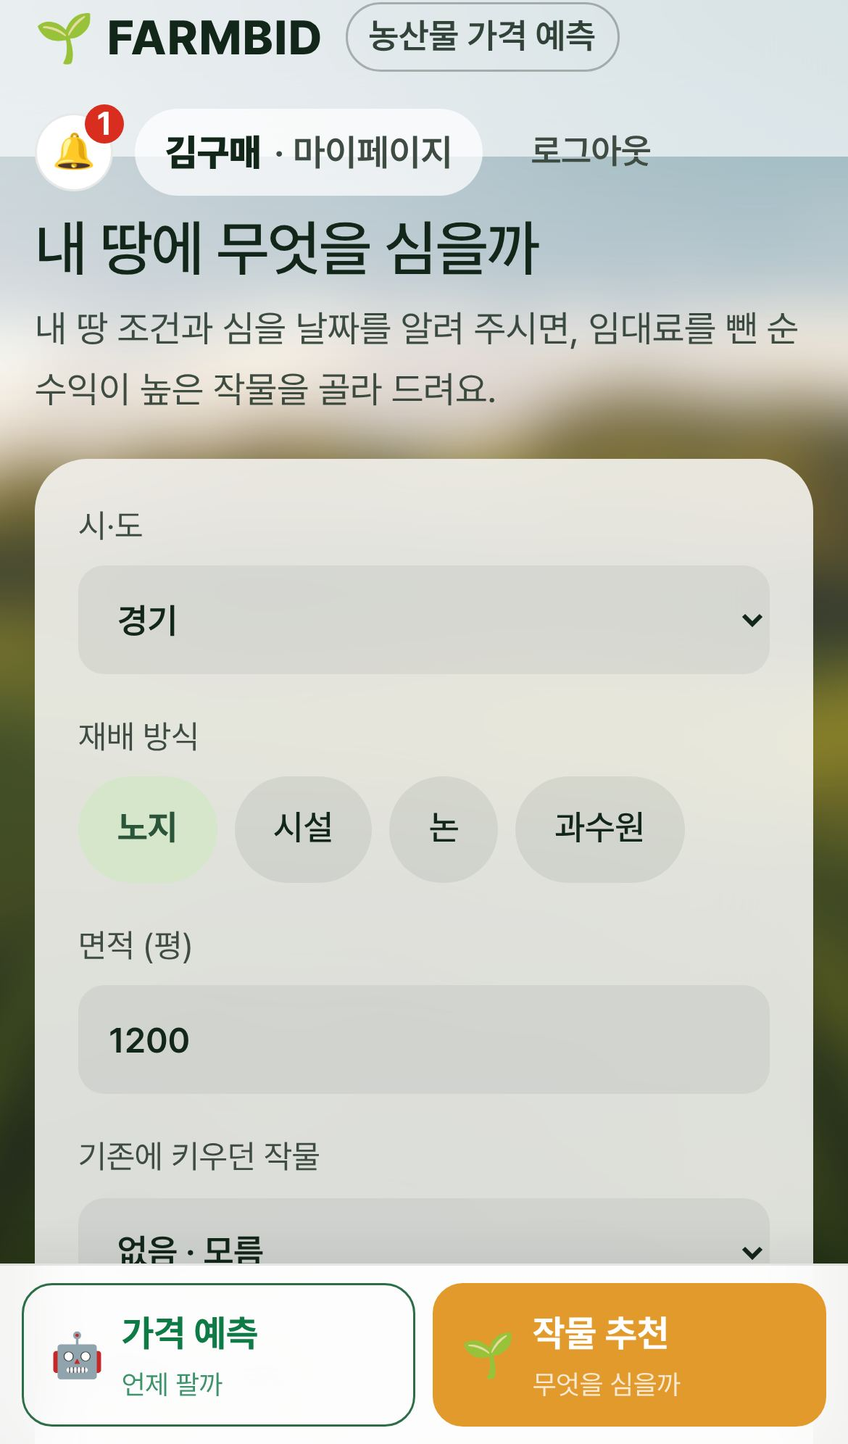
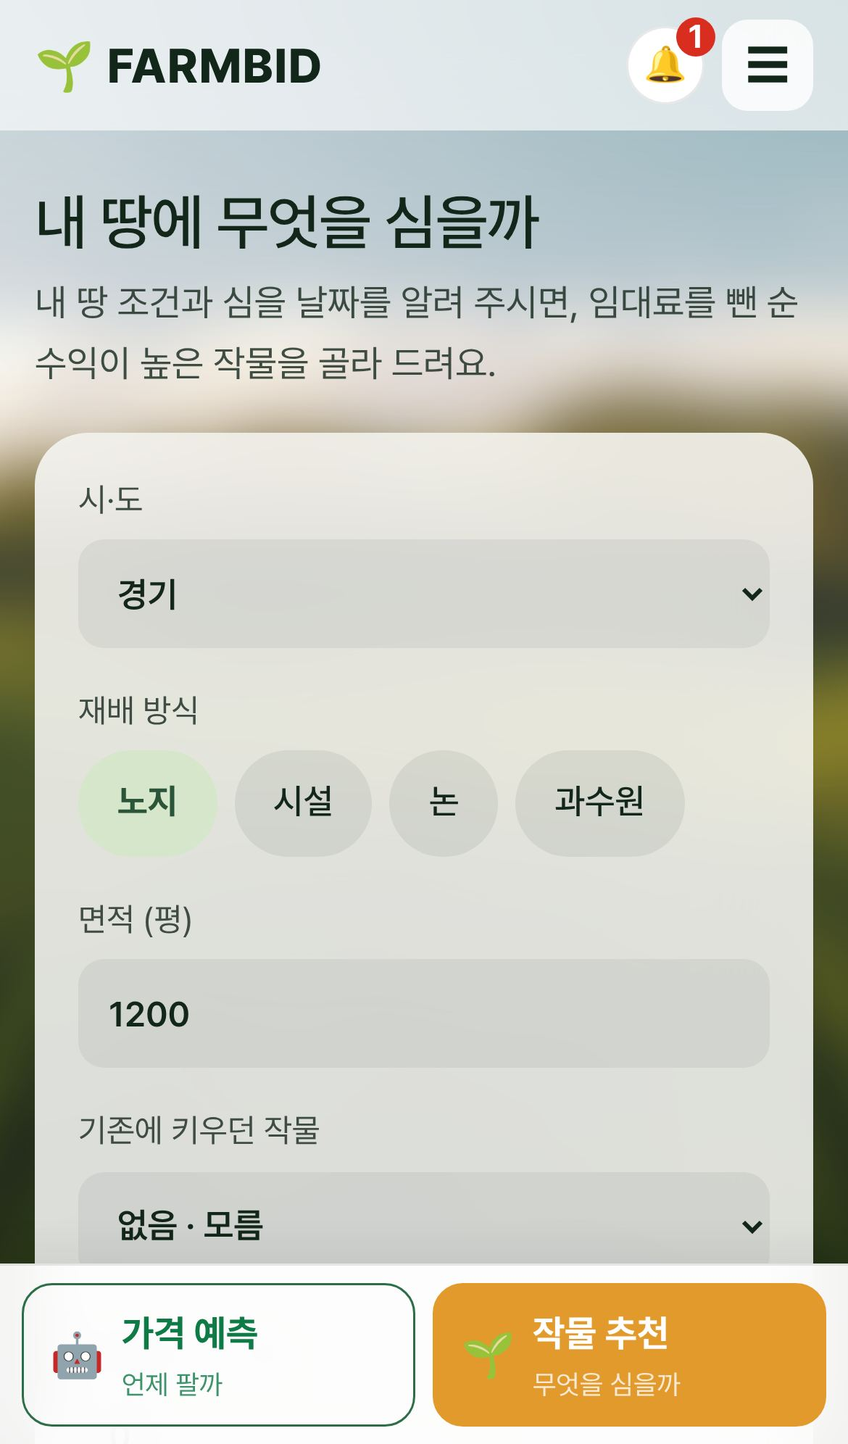
feat(frontend): 휴대폰 맞춤 — ☰ 메뉴, 홈 미리보기·날씨·소개 칸, 예측·12개월 그래프 휴대폰용, 작물 카드·재배 달력, 시세 표, 마이페이지 넘침, 바닥글
- 머리말(960px 이하): 로고 · 알림 · ☰ (검색 · 메뉴 6개 · 마이페이지 · 로그아웃 · 관리자 사이트)
- 홈: 미리보기 카드가 잘리지 않게, 가격 예측·작물 추천 카드 둘 다, 지역 날씨 4칸 글자 쪼개짐, 서비스 소개 한 줄에 하나
- 가격 예측·작물 정보 12개월 그래프: 좁은 화면이면 좁게 다시 그려 글씨 15px 유지 (useNarrow)
- 작물 카드 이름과 1위 표시 겹침, 재배 달력(작형 이름을 막대 위로, 내가 심을 날 이름표 안 잘리게)
- 시세: 등급 카드 숫자 줄바꿈, 표는 옆으로 밀어 보기, 반입 그래프 이름표 겹침
- 마이페이지 가로 넘침, 글 수정·삭제 버튼, 바닥글을 진한 띠로
- 휴대폰 모양은 frontend/src/mobile.css 한 파일에 모음

Claude-Session: https://claude.ai/code/session_01A5Bz2YFgwDEj3wEsMnATng

diff --git a/frontend/src/mobile.css b/frontend/src/mobile.css
@@ -1,0 +1,89 @@
+/* ─────────────────────────────────────────────────────────────
+   휴대폰 맞춤 (11-11) — 사용자 사이트만, theme.css 다음에 읽음
+   기준 폭: 960px 이하 = 머리말 ☰ 메뉴 · 640px 이하 = 휴대폰 · 520px 이하 = 작은 휴대폰 (iPhone 13 = 390px)
+   ───────────────────────────────────────────────────────────── */
+
+/* 머리말 ☰ 메뉴 (넓은 화면에서는 숨김) */
+.hdr-menu { display: none; border: 0; background: rgba(255, 255, 255, 0.8); width: 42px; height: 42px; border-radius: 12px; font-size: 20px; color: var(--ink); cursor: pointer; }
+.hdr-drawer { display: none; }
+/* 재배 달력: 이름 칸 폭 (휴대폰에서는 이름이 막대 위로 올라가 0) */
+.rc-cal { --nm: 220px; }
+.rc-cal .today { left: calc(var(--nm) + (100% - var(--nm)) * var(--t, 0)); }
+.rc-mini .mm i { font-style: normal; }
+
+@media (max-width: 960px) {
+  .hdr-menu { display: grid; place-items: center; }
+  .header-inner { height: 60px; gap: 10px; }
+  .header .header-right { margin-left: auto; gap: 8px; }
+  .header .user-chip, .header .hdr-out, .header .hdr-admin { display: none; }
+  .hdr-drawer { display: grid; grid-template-columns: minmax(0, 1fr); gap: 14px; padding: 6px 16px 18px; border-top: 1px solid rgba(19, 38, 26, 0.08); max-height: calc(100vh - 60px); overflow-y: auto; }
+  .hdr-drawer .search { order: -1; display: flex; max-width: none; width: 100%; height: 48px; border: 0; background: #eef2ea; padding: 0 6px 0 14px; }
+  .hdr-drawer .search input { font-size: 17px; }
+  .hdr-drawer .search button { background: var(--accent); color: var(--brand); }
+  .hdr-drawer nav { display: grid; grid-template-columns: repeat(2, minmax(0, 1fr)); gap: 8px; }
+  .hdr-drawer nav a { display: block; padding: 14px 16px; border-radius: 14px; background: rgba(19, 38, 26, 0.05); font-size: 18px; font-weight: 600; color: var(--ink); }
+  .hdr-drawer nav a.active { background: var(--accent); color: var(--brand); }
+  .hdr-user { display: flex; align-items: center; justify-content: space-between; flex-wrap: wrap; gap: 10px; padding-top: 4px; font-size: 17px; }
+  .hdr-user a { color: var(--ink); }
+  .hv { margin-top: -60px; }
+}
+
+/* 휴대폰 */
+@media (max-width: 640px) {
+  /* 바닥글: 사진 위에서도 읽히게 진한 띠 · 아래 고정 바에 가리지 않게 */
+  .footer { background: rgba(19, 38, 26, 0.72); color: #fff; padding-bottom: 96px; }
+  .footer.light { background: #d6e4c6; color: rgba(19, 38, 26, 0.85); }
+
+  /* 홈 첫 화면: 미리보기 카드가 잘리지 않게 높이를 내용만큼, 두 카드(가격 예측·작물 추천)를 위아래로 */
+  .hv-hero { min-height: 0; }
+  .hv-stage { padding-top: 84px; padding-bottom: 8px; gap: 20px; }
+  .hv-preview { height: auto; display: grid; gap: 14px; }
+  .hv-pane { position: relative; inset: auto; opacity: 1; transform: none; pointer-events: auto; }
+  .hv-cue { position: static; transform: none; margin: 18px auto 22px; }
+  .hv-crops { gap: 18px; }
+  .hv-crops li { grid-template-columns: 44px minmax(0, 1fr); }
+  .hv-crops .n { font-size: 32px; }
+  .hv-crops .nm small { display: block; margin-left: 0; }
+  .hv-crops .v { grid-column: 2; text-align: left; display: flex; align-items: baseline; gap: 8px; flex-wrap: wrap; }
+  .hv-crops .v small { display: inline; }
+  .hv-wx-grid button { padding: 8px 6px; text-align: center; font-size: 15px; white-space: nowrap; }
+  .hv-wx-grid b { display: block; font-size: 20px; }
+
+  /* 가격 예측 · 작물 추천 */
+  .rc-nm { padding-right: 128px; font-size: 30px; }
+  .rc-nm small { display: block; margin-left: 0; margin-top: 2px; }
+  .rc-art { right: 16px; }
+  .rc-art i { width: 76px; height: 76px; font-size: 48px; }
+  .rc-mini .mm { font-size: 14px; }
+  .rc-mini .mm i { display: none; }
+  .rc-mini .when { grid-template-columns: 1fr 1fr; }
+  .rc-cal { --nm: 0px; overflow-x: visible; }
+  .rc-cal .mh, .rc-cal .row { grid-template-columns: 1fr; min-width: 0; }
+  .rc-cal .mh > span:first-child { display: none; }
+  .rc-cal .months { font-size: 13px; }
+  .rc-cal .nm { margin-bottom: 6px; }
+  .rc-cal .today { top: 22px; }
+  .rc-cal .today span { left: 0; transform: translateX(calc(-100% * var(--t, 0))); } /* 이름표가 화면 밖으로 잘리지 않게 */
+
+  /* 시세: 등급 카드 숫자가 잘리지 않게 줄바꿈 */
+  .grade-card .d { flex-wrap: wrap; white-space: normal; gap: 0 8px; }
+  /* 시세 표: 칸 안에서 줄바꿈하지 않고 옆으로 밀어 보기 (오른쪽 끝이 흐려져 더 있다는 걸 알림) */
+  .table-wrap { -webkit-overflow-scrolling: touch; mask-image: linear-gradient(to right, #000 calc(100% - 28px), transparent); -webkit-mask-image: linear-gradient(to right, #000 calc(100% - 28px), transparent); }
+  .table-wrap .table th, .table-wrap .table td { white-space: nowrap; }
+
+  /* 게시판 글: 수정·삭제 버튼 글자가 세로로 쪼개지지 않게 */
+  .post-head .btn { white-space: nowrap; flex-shrink: 0; }
+
+  /* 마이페이지: 화면 밖으로 넓어지지 않게, 글 목록은 제목 아래에 날짜 */
+  .mp-col { min-width: 0; }
+  .mp-list li { flex-wrap: wrap; gap: 4px 10px; }
+  .mp-list li a { flex: 1 1 60%; }
+  .mp-list .m { margin-left: 0; width: 100%; }
+}
+
+/* 작은 휴대폰 */
+@media (max-width: 520px) {
+  .logo small { display: none; }
+  .hv-ig { grid-template-columns: 1fr; }
+  .hv-team { flex-wrap: wrap; }
+}

diff --git a/frontend/src/pages/Recommend.jsx b/frontend/src/pages/Recommend.jsx
@@ -2,7 +2,7 @@ import { useEffect, useMemo, useRef, useState } from "react";
 import { Link, useSearchParams } from "react-router-dom";
 import { getCropInfo, getCropPricePath, getRecommendCrops, recommendCrops } from "../api/ml";
 import { useAuth } from "../components/AuthContext";
-import { Async, useAsync } from "../components/common";
+import { Async, useAsync, useNarrow } from "../components/common";
 import { LAND_TYPES, SIDO_LIST } from "../mocks/recommend";
 import { SOIL_PH } from "../mocks/soil_ph";
 import { IN50 } from "../mocks/items50";
@@ -94,7 +94,8 @@ function MiniCalendar({ o }) {
   const store = o.storage_days > 0;
   return (
     <div className="rc-mini">
-      <div className="mm">{months.map((m) => <span key={m}>{m}월</span>)}</div>
+      {/* 휴대폰은 칸이 좁아 "월" 을 빼고 숫자만 */}
+      <div className="mm">{months.map((m) => <span key={m}>{m}<i>월</i></span>)}</div>
       <div className="tr">
         {seg(o.plant_date, addDays(o.plant_date, 7), "s")}
         {seg(addDays(o.plant_date, 7), o.harvest_start, "g")}
@@ -321,7 +322,7 @@ function Calendar({ info, plantDate }) {
             </div>
           );
         })}
-        {today != null && <div className="today" style={{ left: `calc(220px + (100% - 220px) * ${today / 365})` }}><span>▲ {md(plantDate)} 내가 심을 날</span></div>}
+        {today != null && <div className="today" style={{ "--t": today / 365 }}><span>▲ {md(plantDate)} 내가 심을 날</span></div>}
       </div>
       <div className="rc-key"><span><i className="k-plant" />심는 기간</span><span><i className="k-grow" />자람</span><span><i className="k-harv" />수확</span><span><i className="k-store" />보관·출하</span></div>
     </section>
@@ -330,10 +331,12 @@ function Calendar({ info, plantDate }) {
 
 /** 앞으로 12개월 예상 도매가 (53점, 주 단위) + 내 수확 기간 */
 function PriceYear({ crop, harvest }) {
+  const narrow = useNarrow();
   const state = useAsync(() => getCropPricePath(crop), [crop]);
   const pts = state.data?.points ?? [];
   if (!pts.length) return state.data ? null : <section className="card state">불러오는 중…</section>;
-  const W = 1300, H = 300, L = 70, R = 24, T = 36, B = 34;
+  // 휴대폰: 좁은 그림으로 다시 그려 글씨가 작아지지 않게 (달 이름표는 3달마다)
+  const W = narrow ? 420 : 1300, H = narrow ? 320 : 300, L = narrow ? 54 : 70, R = narrow ? 14 : 24, T = 36, B = 34;
   const vals = pts.flatMap((x) => [x.lower, x.upper]);
   const step = [50, 100, 200, 300, 500, 1000, 2000, 5000].find((s) => (Math.max(...vals) - Math.min(...vals)) / s <= 5) ?? 10000;
   const lo = Math.floor(Math.min(...vals) / step) * step, hi = Math.ceil(Math.max(...vals) / step) * step;
@@ -342,7 +345,9 @@ function PriceYear({ crop, harvest }) {
   const mi = pts.reduce((a, x, i) => (x.price < pts[a].price ? i : a), 0), ma = pts.reduce((a, x, i) => (x.price > pts[a].price ? i : a), 0);
   const idx = (iso) => pts.reduce((a, x, i) => (Math.abs(daysBetween(x.date, iso)) < Math.abs(daysBetween(pts[a].date, iso)) ? i : a), 0);
   const ticks = []; for (let v = lo; v <= hi; v += step) ticks.push(v);
-  const monthsAt = pts.map((x, i) => [x, i]).filter(([x, i]) => i === 0 || x.date.slice(0, 7) !== pts[i - 1].date.slice(0, 7));
+  const monthsAt = pts.map((x, i) => [x, i]).filter(([x, i]) => i === 0 || x.date.slice(0, 7) !== pts[i - 1].date.slice(0, 7))
+    .filter((_, n) => !narrow || n % 3 === 0);
+  const inX = (x, w) => Math.min(Math.max(x, L + w / 2), W - R - w / 2); // 이름표가 그림 밖으로 잘리지 않게
   return (
     <section className="card">
       <div className="rc-ch"><h2>앞으로 12개월 예상 도매가</h2><small>원/kg · 전국 도매시장 · 예측은 최대 12개월</small></div>
@@ -356,8 +361,8 @@ function PriceYear({ crop, harvest }) {
         <polygon points={band} fill="rgba(20,96,59,.1)" />
         <polyline points={pts.map((x, i) => `${X(i)},${Y(x.price)}`).join(" ")} fill="none" stroke="#e08a00" strokeWidth="3.5" strokeLinejoin="round" />
         <circle cx={X(0)} cy={Y(pts[0].price)} r="6" fill="#13261a" />
-        <text x={X(mi)} y={Y(pts[mi].price) + 26} textAnchor="middle" fontSize="16" fontWeight="700" fill="#1d5fd8">최저 {won(pts[mi].price)}원</text>
-        <text x={X(ma)} y={Y(pts[ma].price) - 14} textAnchor="middle" fontSize="16" fontWeight="700" fill="#d92d20">최고 {won(pts[ma].price)}원</text>
+        <text x={inX(X(mi), 130)} y={Y(pts[mi].price) + 26} textAnchor="middle" fontSize="16" fontWeight="700" fill="#1d5fd8">최저 {won(pts[mi].price)}원</text>
+        <text x={inX(X(ma), 130)} y={Y(pts[ma].price) - 14} textAnchor="middle" fontSize="16" fontWeight="700" fill="#d92d20">최고 {won(pts[ma].price)}원</text>
       </svg>
       <div className="rc-key"><span><i style={{ background: "#e08a00", height: 3 }} />AI 예상 가격</span><span><i style={{ background: "rgba(20,96,59,.25)" }} />예측 범위</span>{harvest && <span><i style={{ background: "var(--amber)" }} />내 수확 기간</span>}</div>
     </section>

diff --git a/frontend/src/pages/Predict.jsx b/frontend/src/pages/Predict.jsx
@@ -1,7 +1,7 @@
 import { useSearchParams } from "react-router-dom";
 import { getItems, predict } from "../api/ml";
 import { getMarkets } from "../api/market";
-import { Async, useAsync } from "../components/common";
+import { Async, useAsync, useNarrow } from "../components/common";
 import PredictSearch from "../components/PredictSearch";
 import { ITEMS50, itemOf, varietyFactor, varietyOf } from "../mocks/items50";
 import { LOW_ACCURACY } from "../mocks/accuracy";
@@ -37,7 +37,9 @@ function weekly(p) {
 
 /** 그래프: 올해 실제(진한 초록) · AI 예측(주황) + 범위 · 작년 같은 시기(파랑) */
 function Chart({ past, fut, ly }) {
-  const W = 900, H = 340, L = 64, R = 24, T = 40, B = 40;
+  // 휴대폰: 좁은 그림으로 다시 그려 글씨가 작아지지 않게 (날짜 이름표는 몇 개만)
+  const narrow = useNarrow();
+  const W = narrow ? 420 : 900, H = narrow ? 380 : 340, L = narrow ? 52 : 64, R = narrow ? 14 : 24, T = 40, B = 40;
   const all = [...past, ...fut];
   const vals = [...all.map((x) => x.price), ...fut.flatMap((f) => [f.lower, f.upper]), ...ly.filter((v) => v != null)];
   const step = (() => { const r = Math.max(...vals) - Math.min(...vals) || 100; return [10, 20, 50, 100, 200, 500, 1000, 2000, 5000].find((s) => r / s <= 6) ?? 10000; })();
@@ -52,7 +54,8 @@ function Chart({ past, fut, ly }) {
   const lyTopV = Math.max(...ly.filter((v) => v != null));
   const lyTopI = ly.indexOf(lyTopV);
   const band = [...fu.map((f, i) => `${X(k + i)},${Y(i ? f.upper : f.price)}`), ...fu.map((f, i) => `${X(k + i)},${Y(i ? f.lower : f.price)}`).reverse()].join(" ");
-  const labels = all.map((x, i) => (i < k ? md(x.date) : i === k ? "기준일" : `${i - k}주 뒤`));
+  const labels = all.map((x, i) => (i < k ? md(x.date) : i === k ? "기준일" : `${i - k}주 뒤`))
+    .map((t, i) => (!narrow || i === 0 || i === k || i === all.length - 1 || i === Math.round(k / 2) ? t : ""));
   // 이름표가 그래프 밖으로 잘리지 않게 x 를 안쪽으로
   const inX = (x, w) => Math.min(Math.max(x, L + w / 2), W - R - w / 2);
   const ticks = [];
@@ -66,7 +69,7 @@ function Chart({ past, fut, ly }) {
         </g>
       ))}
       {labels.map((t, i) => (
-        <text key={i} x={X(i)} y={H - 10} textAnchor="middle" fontSize="15" fill={i === k ? "#13261a" : "rgba(19,38,26,.8)"} fontWeight={i === k ? 700 : 400}>{t}</text>
+        <text key={i} x={X(i)} y={H - 10} textAnchor={narrow && i === all.length - 1 ? "end" : narrow && i === 0 ? "start" : "middle"} fontSize="15" fill={i === k ? "#13261a" : "rgba(19,38,26,.8)"} fontWeight={i === k ? 700 : 400}>{t}</text>
       ))}
       <rect x={X(k)} y={T - 16} width={W - R - X(k)} height={H - T - B + 16} fill="rgba(217,138,0,.06)" rx="8" />
       <line x1={X(k)} x2={X(k)} y1={T - 16} y2={H - B} stroke="rgba(19,38,26,.35)" strokeDasharray="4 4" />
@@ -77,8 +80,8 @@ function Chart({ past, fut, ly }) {
           {lyPts.map(([x, y], i) => <circle key={i} cx={x} cy={y} r="3" fill="#fff" stroke="#4a6fb5" strokeWidth="2" />)}
           <text x={lyPts[0][0] + 6} y={lyPts[0][1] - 10} fontSize="15" fontWeight="700" fill="#4a6fb5">작년</text>
           <g>
-            <rect x={inX(X(lyTopI), 210) - 105} y={Y(lyTopV) - 46} width="210" height="30" rx="15" fill="#4a6fb5" />
-            <text x={inX(X(lyTopI), 210)} y={Y(lyTopV) - 25} textAnchor="middle" fontSize="15" fontWeight="700" fill="#fff">작년 최고 {won(lyTopV)}원 ({md(addDays(all[lyTopI].date, -LY_DAYS))})</text>
+            <rect x={inX(X(lyTopI), narrow ? 150 : 210) - (narrow ? 75 : 105)} y={Y(lyTopV) - 46} width={narrow ? 150 : 210} height="30" rx="15" fill="#4a6fb5" />
+            <text x={inX(X(lyTopI), narrow ? 150 : 210)} y={Y(lyTopV) - 25} textAnchor="middle" fontSize="15" fontWeight="700" fill="#fff">작년 최고 {won(lyTopV)}원{narrow ? "" : ` (${md(addDays(all[lyTopI].date, -LY_DAYS))})`}</text>
           </g>
         </>
       )}

diff --git a/frontend/src/components/Layout.jsx b/frontend/src/components/Layout.jsx
@@ -143,6 +143,9 @@ function Header() {
   const nav = useNavigate();
   const loc = useLocation();
   const [solid, setSolid] = useState(false);
+  // 휴대폰 메뉴 (☰): 다른 화면으로 가면 닫힘
+  const [menu, setMenu] = useState(false);
+  useEffect(() => setMenu(false), [loc.pathname, loc.search]);
   useEffect(() => {
     const on = () => setSolid(window.scrollY > 10);
     on();
@@ -158,8 +161,12 @@ function Header() {
     ["/news", "뉴스"],
     ["/board", "게시판"],
   ];
+  const out = () => {
+    logout();
+    nav("/");
+  };
   return (
-    <header className={`header ${solid ? "solid" : ""}`}>
+    <header className={`header ${solid || menu ? "solid" : ""}`}>
       <div className="container header-inner">
         <Link to="/" className="logo">
           🌱 FARMBID<small>농산물 가격 예측</small>
@@ -174,26 +181,41 @@ function Header() {
           {user ? (
             <>
               {/* 관리자 화면은 별도 사이트 (/admin/) */}
-              {isAdmin && <a className="btn sm" href="/admin/" target="_blank" rel="noreferrer">관리자 사이트 ↗</a>}
+              {isAdmin && <a className="btn sm hdr-admin" href="/admin/" target="_blank" rel="noreferrer">관리자 사이트 ↗</a>}
               <NotificationBell user={user} />
               <NavLink to="/mypage" className="user-chip" title={`${user.name} · ${USER_TYPE_LABEL[user.type]}`}>
                 <b>{user.name}</b> <span className="muted">· 마이페이지</span>
               </NavLink>
-              <button
-                className="btn sm ghost"
-                onClick={() => {
-                  logout();
-                  nav("/");
-                }}
-              >
+              <button className="btn sm ghost hdr-out" onClick={out}>
                 로그아웃
               </button>
             </>
           ) : (
             <Link to={`/login?next=${encodeURIComponent(loc.pathname + loc.search)}`} className="btn sm login">로그인</Link>
           )}
+          <button type="button" className="hdr-menu" aria-label={menu ? "메뉴 닫기" : "메뉴 열기"} aria-expanded={menu} onClick={() => setMenu((m) => !m)}>
+            {menu ? "✕" : "☰"}
+          </button>
         </div>
       </div>
+      {/* 휴대폰 메뉴: 검색 · 모든 메뉴 · 마이페이지/로그아웃 (넓은 화면에서는 안 보임) */}
+      {menu && (
+        <div className="hdr-drawer">
+          <HeaderSearch />
+          <nav aria-label="휴대폰 메뉴">
+            {links.map(([to, label]) => (
+              <NavLink key={to} to={to} end={to === "/"}>{label}</NavLink>
+            ))}
+          </nav>
+          {user && (
+            <div className="hdr-user">
+              <NavLink to="/mypage">👤 <b>{user.name}</b> · 마이페이지</NavLink>
+              {isAdmin && <a href="/admin/" target="_blank" rel="noreferrer">관리자 사이트 ↗</a>}
+              <button type="button" className="btn sm ghost" onClick={out}>로그아웃</button>
+            </div>
+          )}
+        </div>
+      )}
     </header>
   );
 }

diff --git a/frontend/src/components/common.jsx b/frontend/src/components/common.jsx
@@ -20,6 +20,21 @@ export function useAsync(fn, deps = []) {
 }
 
 /** 로딩·에러·데이터 상태를 알아서 그려주는 감싸개 */
+/** 휴대폰처럼 좁은 화면인지 (그래프를 휴대폰용으로 다시 그릴 때) — 창 크기가 바뀌면 다시 계산 */
+export function useNarrow(max = 640) {
+  const q = `(max-width: ${max}px)`;
+  const [narrow, setNarrow] = useState(() => typeof window !== "undefined" && !!window.matchMedia?.(q).matches);
+  useEffect(() => {
+    const m = window.matchMedia?.(q);
+    if (!m) return;
+    const on = () => setNarrow(m.matches);
+    on();
+    m.addEventListener?.("change", on);
+    return () => m.removeEventListener?.("change", on);
+  }, [q]);
+  return narrow;
+}
+
 export function Async({ state, children, empty = "데이터가 없습니다", minHeight }) {
   if (state.loading && !state.data) return <div className="state" style={{ minHeight }}>불러오는 중…</div>;
   if (state.error)

diff --git a/frontend/src/pages/Market.jsx b/frontend/src/pages/Market.jsx
@@ -261,7 +261,7 @@ function VolumeSection({ item, itemName, market, date }) {
               <ResponsiveContainer width="100%" height={250}>
                 <BarChart data={data} margin={{ top: 18, right: 8, left: 0, bottom: 0 }}>
                   <CartesianGrid strokeDasharray="3 3" stroke="#eee" vertical={false} />
-                  <XAxis dataKey="period" fontSize={11} interval={0} />
+                  <XAxis dataKey="period" fontSize={11} interval="preserveStartEnd" minTickGap={6} />
                   <YAxis fontSize={12} tickFormatter={won} width={56} />
                   <Tooltip formatter={(v, name, p) => [`${won(v)}톤`, name === "1위" ? `1위 ${p.payload.r1}` : name === "2위" ? `2위 ${p.payload.r2}` : name]} />
                   <Bar name="1위" dataKey="top1" stackId="v" fill="#0e7a45" maxBarSize={32} />

diff --git a/frontend/src/main.jsx b/frontend/src/main.jsx
@@ -6,6 +6,7 @@ import { AuthProvider } from "./components/AuthContext";
 import { ErrorPopupProvider } from "./components/ErrorPopup";
 import "./styles.css";
 import "./theme.css"; // 새 디자인 (v17) — 사용자 사이트만
+import "./mobile.css"; // 휴대폰 맞춤 (theme.css 다음에)
 
 ReactDOM.createRoot(document.getElementById("root")).render(
   <React.StrictMode>

diff --git a/docs/05_ui_spec.md b/docs/05_ui_spec.md
@@ -49,6 +49,8 @@
 1. **헤더** (흰 유리 띠): 🌱 FARMBID 로고 + "농산물 가격 예측" · 통합 검색창(자동완성, API 2-13) · 메뉴 HOME · 가격 예측 · 작물 추천 · 시세 · 뉴스 · 게시판 · (로그인하면) 🔔 알림 · "이름 · 마이페이지" · 로그아웃 / (로그인 전) **로그인** 버튼 하나
 2. **회원 전용 화면**(가격 예측 · 작물 추천 · 글쓰기 · 댓글)은 로그인 전에 누르면 **로그인 화면으로 보내고, 로그인하면 원래 화면으로 돌아옴** (`/login?next=…`)
 3. **휴대폰 아래 고정 바** (폭 700px 이하): 🤖 가격 예측(언제 팔까) · 🌱 작물 추천(무엇을 심을까)
+   - **휴대폰 머리말** (폭 960px 이하): 로고 · 🔔 · **☰ 메뉴**. ☰ 를 누르면 검색창 · 메뉴 6개(두 줄 큰 버튼) · 내 이름·마이페이지 · 로그아웃. 다른 화면으로 가면 닫힘
+   - 휴대폰 모양은 `frontend/src/mobile.css` 한 파일에 모음 (960px 머리말 · 640px 휴대폰 · 520px 작은 휴대폰)
 4. **바닥글**: 데이터 출처 · 서비스 소개 · 문의
 5. 신고 기능은 없음 (11-11 삭제)
 
@@ -69,7 +71,7 @@
 | 5 | **서비스 소개** (연한 초록 바탕) | 6칸(AI 가격 예측 · 작물 추천 · 이상기후 · 관심 품목 알림 · 자주 묻는 질문 · 문의) + 만든 사람들 | 서비스 소개 각 칸 | |
 
 - 컴퓨터의 "동작 줄이기" 설정이면 움직임을 모두 멈춤
-- 휴대폰: 첫 화면 메뉴 아래에 미리보기, 뉴스·날씨는 위아래로
+- 휴대폰: 첫 화면 메뉴 아래에 미리보기 두 장(AI 가격 예측 · 작물 추천)을 위아래로 모두 보여 줌(카드가 잘리지 않게 높이는 내용만큼), 뉴스·날씨는 위아래로, 지역 날씨는 4칸, 서비스 소개는 한 줄에 하나
 
 <img src="ui/12_m_home.jpg" width="260" alt="홈 휴대폰">
 
@@ -148,7 +150,7 @@
 - **앞으로 12개월 예상 도매가** (주 단위 53점, 수확 기간 표시)
 - API 1-6 `GET /recommend/crops/{code}`, `GET /recommend/price-path`
 
-휴대폰: 카드가 한 줄에 하나
+휴대폰: 카드가 한 줄에 하나. 가격 예측 그래프와 12개월 가격 그래프는 휴대폰용으로 다시 그려 글씨 크기를 지킴(날짜 이름표는 몇 개만). 재배 달력은 작형 이름이 막대 위로 올라감. 시세 표는 줄바꿈 없이 옆으로 밀어 봄(오른쪽 끝이 흐려짐)
 
 <img src="ui/12_m_recommend.jpg" width="260" alt="작물 추천 휴대폰"> <img src="ui/12_m_predict.jpg" width="260" alt="가격 예측 휴대폰">
 
@@ -265,3 +267,4 @@ API 2-8 ~ 2-11
 | 2026-11-11 | **새 디자인(v17)** — 들판 사진 + 흰 유리 카드, 새 헤더·로그인 버튼 하나, 회원 화면은 로그인 후 돌아옴, 글씨 크게(최소 15px)·회색 진하게. 홈: 사진 첫 화면 + 흰 바탕이 덮는 오늘의 농업 정보(뉴스·날씨 나란히) + 서비스 소개. 가격 예측: 기준 날짜(1년 전까지)·4주 주별 예측·작년 같은 시기 선·출하 추천 시기. 작물 추천: 한 카드 입력·심을 날짜 1년·TOP3 카드(순수익/마진율 1위 강조)·작물 정보 검색 목록·12개월 가격. 뉴스: 많이 다룬 뉴스·내 관심 품목 뉴스. 마이페이지·서비스 소개 새 배치. 신고 기능 삭제, 마케팅 동의 없음. 캡처 교체 | |
 | 2026-11-11 | 시세 조건 칸 · 반입 동향 요약 · 뉴스 분류·품목 칸이 사진 위에 투명하게 떠 보이던 것 수정 (흰 유리 판). 캡처 `04_market` · `05_news` 교체 | |
 | 2026-11-11 | 뉴스 제목 옆 설명이 혼자 흰 배경을 달고 제목 아래로 내려가던 것 → 다른 화면처럼 제목 옆 한 줄로. 캡처 `05_news` 교체 | |
+| 2026-11-11 | **휴대폰 맞춤** — ☰ 메뉴(검색·모든 메뉴·마이페이지), 홈 미리보기 카드 잘림·지역 날씨·서비스 소개 칸, 가격 예측·12개월 가격 그래프 휴대폰용, 작물 카드 이름 겹침·재배 달력, 시세 등급 카드·표, 마이페이지 가로 넘침, 바닥글 진한 띠. 캡처 `12_m_*` 교체 | |
